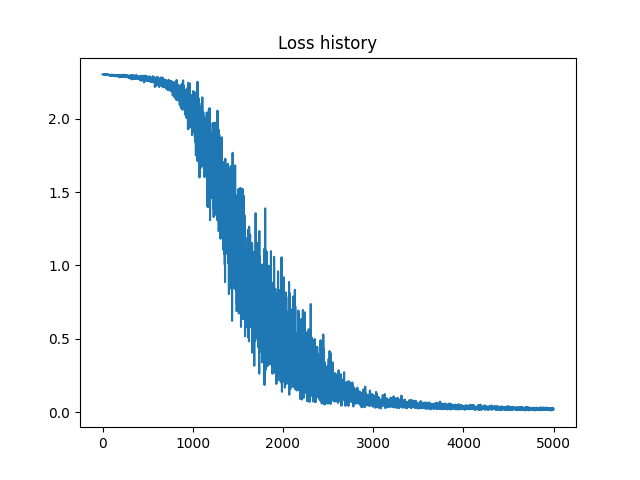
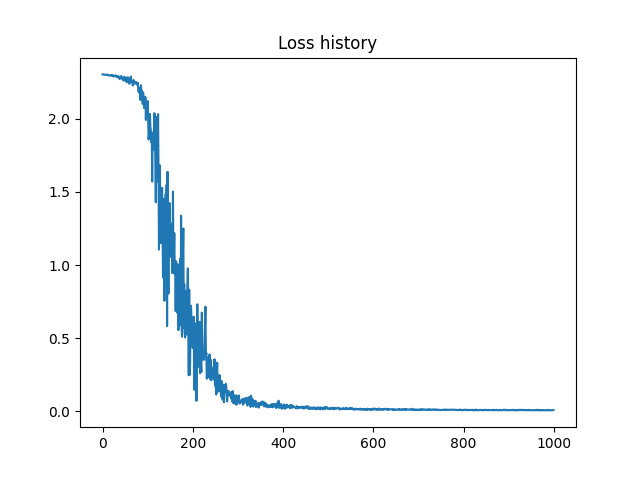
seminar 3 fixes

diff --git a/src/seminar3.py b/src/seminar3.py
@@ -5,7 +5,6 @@ import os.path
 import numpy as np
 from test_utils import get_preprocessed_data, visualize_weights, visualize_loss
 
-
 class Param:
     """
     Trainable parameter of the model
@@ -60,7 +59,7 @@ class ReLULayer:
         """
         #raise Exception("Not implemented!")
         self.mask = X > 0
-        return self.mask * X
+        return self.mask*X
 
     def backward(self, d_out: np.array) -> np.array:
         """
@@ -73,7 +72,7 @@ class ReLULayer:
         """
         # TODO: Implement backward pass
         #raise Exception("Not implemented!")
-        return self.mask * d_out
+        return self.mask*d_out
 
     def params(self) -> dict:
         # ReLU Doesn't have any parameters
@@ -90,9 +89,9 @@ class DenseLayer:
         # TODO: Implement forward pass
         # Your implementation shouldn't have any loops
         #raise Exception("Not implemented!")
-        Z = X @ self.W.value + self.B.value
+        z = X @ self.W.value + self.B.value
         self.X = X.copy()
-        return Z
+        return z
 
     def backward(self, d_out):
         """
@@ -116,12 +115,13 @@ class DenseLayer:
         # raise Exception("Not implemented!")
         # print('d_out shape is ', d_out.shape)
         # print('self.W shape is ', self.W.value.shape)
-        #raise Exception("Not implemented!")
-        batch_size, N = d_out.shape
+        batch_size, N = d_out.shape # N - n_output
         self.W.grad = self.X.T@d_out
-        self.B.grad = np.ones((1, batch_size)) @ d_out
-        self.B.grad = d_out.sum(axis=0, keepdims=True)
-        return d_out @ self.W.value.T
+        self.B.grad = np.ones((1,batch_size))@d_out  # (1,batch_size)*(batch_size,out)
+        self.B.grad = d_out.sum(axis=0,keepdims=True)  # (1,n_out)
+        #raise Exception("Not implemented!")
+        dL_dX = d_out @ self.W.value.T  # (batch_size,n_input)
+        return dL_dX
 
     def params(self):
         return {'W': self.W, 'B': self.B}
@@ -164,6 +164,7 @@ class TwoLayerNet:
             Z = layer.forward(Z)
             for param in layer.params().values():
                 param.grad = np.zeros_like(param.grad)
+
         self.loss, self.d_out = softmax_with_cross_entropy(Z, y)
         return Z
 
@@ -172,14 +173,13 @@ class TwoLayerNet:
         # implement l2 regularization on all params
         # Hint: self.params() is useful again!
 
-        tmp_d_out = self.d_out
+        tmp_d_out = self.d_out # dL_dZ
         for layer in reversed(self.layers):
             tmp_d_out = layer.backward(tmp_d_out)
             for param in layer.params().values():
-                reg_loss, reg_grad = l2_regularization(param.value, self.reg)
+                reg_loss,reg_grad = l2_regularization(param.value,self.reg)
                 self.loss += reg_loss
                 param.grad += reg_grad
-
 
     def fit(self, X, y, learning_rate=1e-3, num_iters=10000,
             batch_size=4, verbose=True):
@@ -235,15 +235,15 @@ class TwoLayerNet:
         """
         z = self.forward(X, y)
         y_predicted = np.argmax(z, axis=1)
-        accuracy = np.mean(y_predicted == y)
+        accuracy = np.mean(y_predicted  == y)
         return accuracy
 
 def train():
-    n_input, n_output = 3072, 10
+    n_input, n_output = 3072,10
     hidden = 100
-    learning_rate = 0.001
-    reg = 1e-3
-    num_iters = 5000
+    learning_rate = 0.01
+    reg = 0.001
+    num_iters = 1000
     batch_size = 10
 
     (x_train, y_train), (x_test, y_test) = get_preprocessed_data(include_bias=False)

diff --git a/output/seminar3/report.md b/output/seminar3/report.md
@@ -1,14 +1,14 @@
 # Training Softmax classifier  
-    datetime: 2023-10-13 21:12:32  
-    Well done in: 26 seconds  
-    learning_rate = 0.001  
+    datetime: 2023-10-13 21:33:56  
+    Well done in: 5 seconds  
+    learning_rate = 0.01  
     reg = 0.001  
-    num_iters = 5000  
+    num_iters = 1000  
     batch_size = 10  
     
-    Final loss: 0.021990242132297527   
-    Train accuracy: 0.15928   
-    Test accuracy: 0.1573  
+    Final loss: 0.009323951330947048   
+    Train accuracy: 0.15932   
+    Test accuracy: 0.1574  
     
     <img src="loss.png">
     
